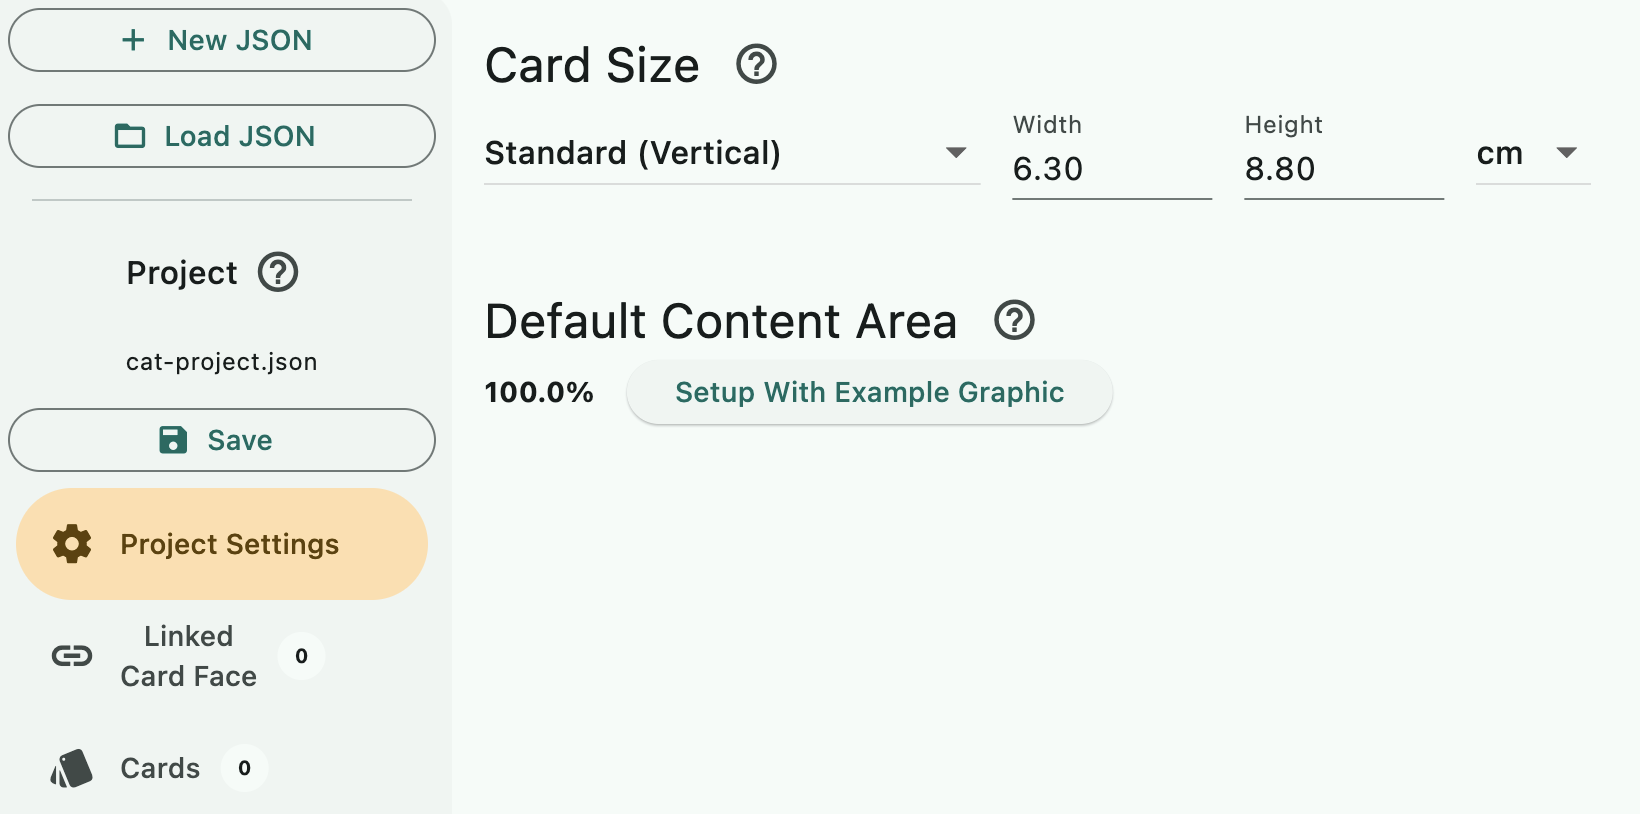
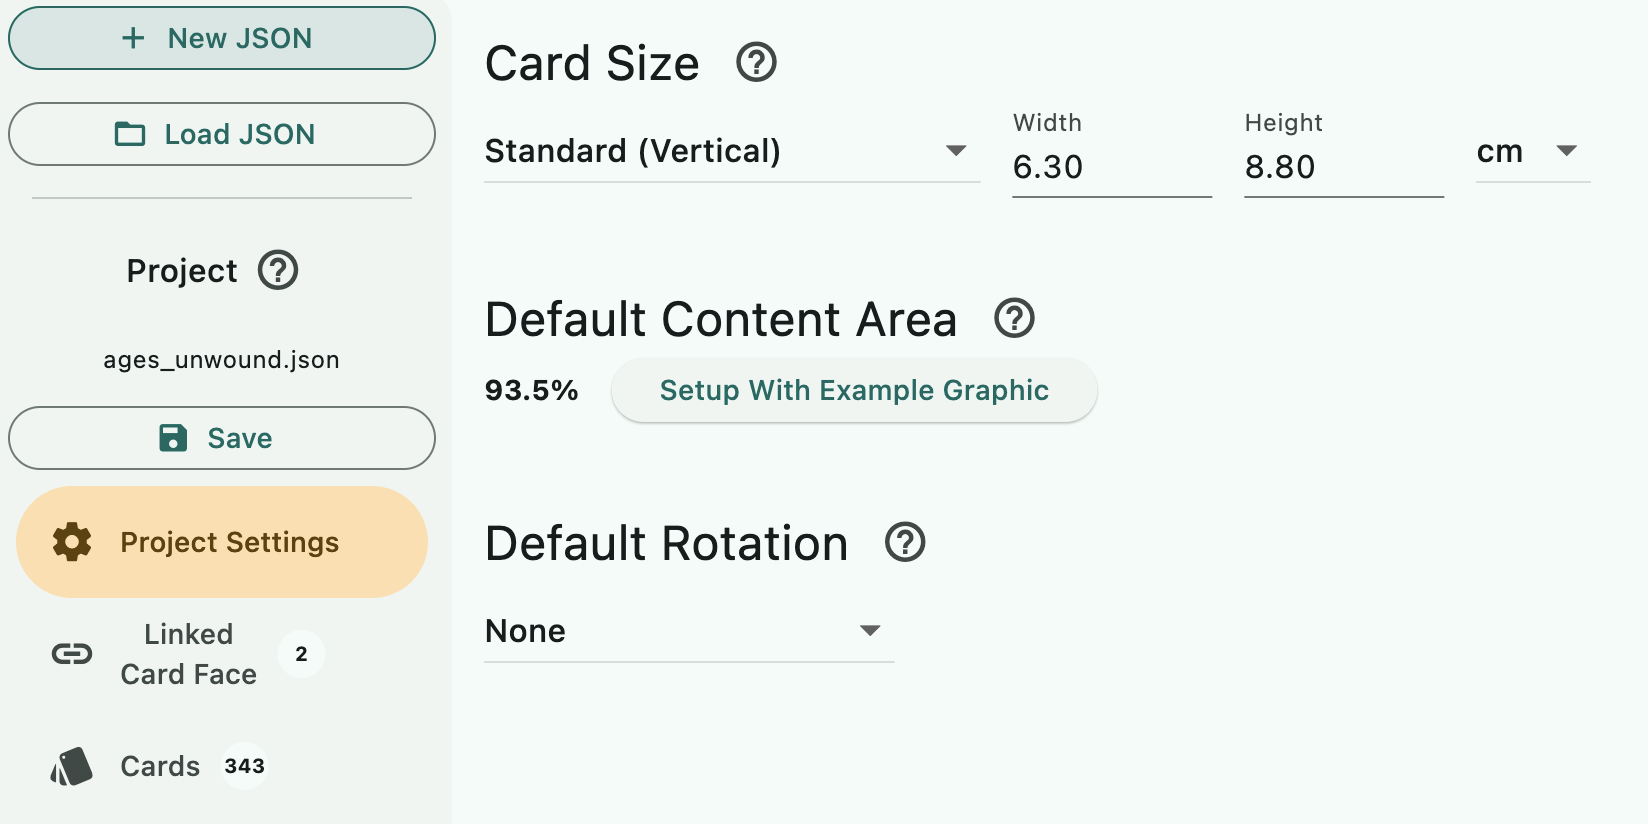
fix some more rotation bugs

diff --git a/flutter/lib/core/page_preview/card_area.dart b/flutter/lib/core/page_preview/card_area.dart
@@ -135,8 +135,11 @@ class _CardAreaState extends State<CardArea> {
               }
               return LayoutBuilder(
                 builder: (context, constraints) {
-                  final rotated = card.rotation == Rotation.clockwise90 ||
-                      card.rotation == Rotation.counterClockwise90;
+                  final effectiveRotation = card.useDefaultRotation
+                      ? widget.projectSettings.defaultRotation
+                      : card.rotation;
+                  final rotated = effectiveRotation == Rotation.clockwise90 ||
+                      effectiveRotation == Rotation.counterClockwise90;
 
                   final parentWidth = constraints.maxWidth;
                   final imageWidth =
@@ -203,7 +206,7 @@ class _CardAreaState extends State<CardArea> {
                   );
 
                   int turns;
-                  switch (card.rotation) {
+                  switch (effectiveRotation) {
                     case Rotation.none:
                       turns = 0;
                       break;
@@ -216,7 +219,7 @@ class _CardAreaState extends State<CardArea> {
                   }
                   if (widget.back &&
                       widget.backArrangement == BackArrangement.invertedRow &&
-                      card.rotation != Rotation.none) {
+                      effectiveRotation != Rotation.none) {
                     turns = turns + 2;
                   }
 

diff --git a/documentation/create/create.md b/documentation/create/create.md
@@ -12,7 +12,7 @@ Before creating a project file, collect all the graphics you need in one folder.
 
 You will be directed to the first tab of the Project section, the Project Settings. Setting card size should be the first thing you do since an uncut sheet naturally must share the same cut lines that run along the edge and cannot have differently sized cards on one page. This affects almost all other calculations.
 
-### Content Area & Default Content Area
+### Content Area
 
 One of the reasons I made this program is I want the ease of specifying the part of the graphic I want and push the rest of the graphic out as bleeds. This is called "content area" in this program.
 
@@ -23,6 +23,12 @@ It is in percentages as this program supports laying out graphics of different r
 Because this rectangle is **always placed at the center**, though you can use a variety of aspect ratios and dimensions of graphics with this program, the subject should be relatively centered on the graphic.
 
 The "Default Content Area" **is shared**. Updating the Default Content Area later will also update every card that is using Default Content Area, so it is not just a default starting value, it is a linked value.
+
+### Rotation
+
+It is expected that most of the input graphics are of the same aspect ratio as the Card Size settings, or at least in similar shape. But sometimes there are both horizontal and vertical input graphics in one project. Rotation can be applied card-by-card to the minority of graphics that are not matching with the Card Size's shape.
+
+Because rotation is more often applied on a per-card basis, this Default Rotation option should be left as None in most cases, as you can flip the Card Size to match most of the input graphics instead.
 
 ## Linked Card Face
 
@@ -50,7 +56,9 @@ In this image, the advantage of Default Content Area in percentage is demonstrat
 
 The Back Face is then set to **link** to the Linked Card Face we created earlier. There are convenient buttons to instantly link to card face #1 or #2 defined in the Linked Card Face tab. So bring the card face you think you will reuse the most up to those indexes.
 
-## Create multiple cards by importing
+### Rotation
+
+### Create multiple cards by importing
 
 In a sizable project you will want to use the "Import From Folder" feature to create many cards at once, potentially also assigning their back face strategically.
 
@@ -70,10 +78,10 @@ They all use Default Content Area after the import, and so I can inspect and adj
 
 ![Custom Content Area](image/custom-content-area.png)
 
-## Copies
+### Copies
 
 When a user prints your project, they often do so by "picking" the whole group. Picking a group will cause all cards inside it to be pushed into the layout. The copies can be changed so they push that card consecutively more times per one pick of the group.
 
 Users can also pick any card inside a group individually. That will ignore the Copies settings and always push in one copy of that card per pick.
 
-For demonstration purpose of Copies feature in [Project Printing Walkthrough](../print/print.md), I'll set the copies of the mackerel colored cat to 2 and then save the changes into the JSON file.
+For demonstration purpose of Copies feature in [Project Printing Walkthrough](../print/print.md), I'll set the copies of the mackerel-colored cat to 2 and then save the changes into the JSON file.
